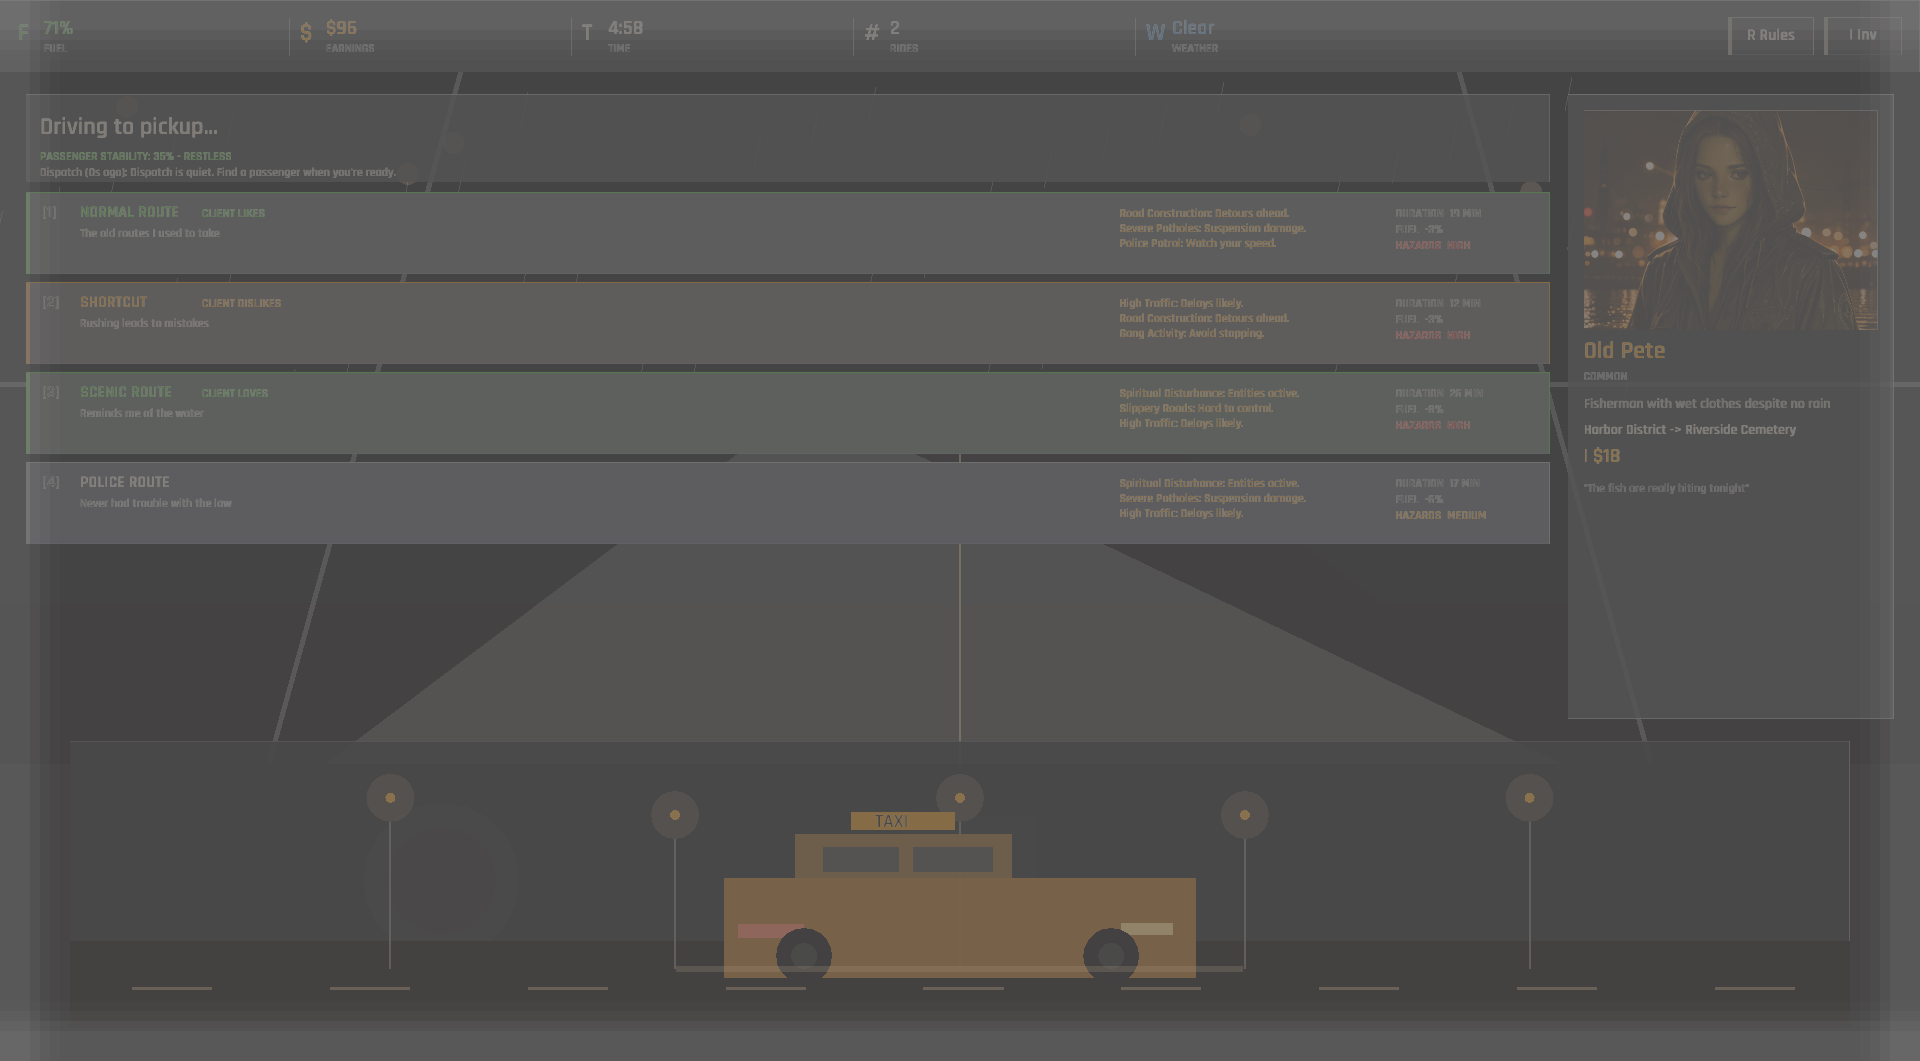
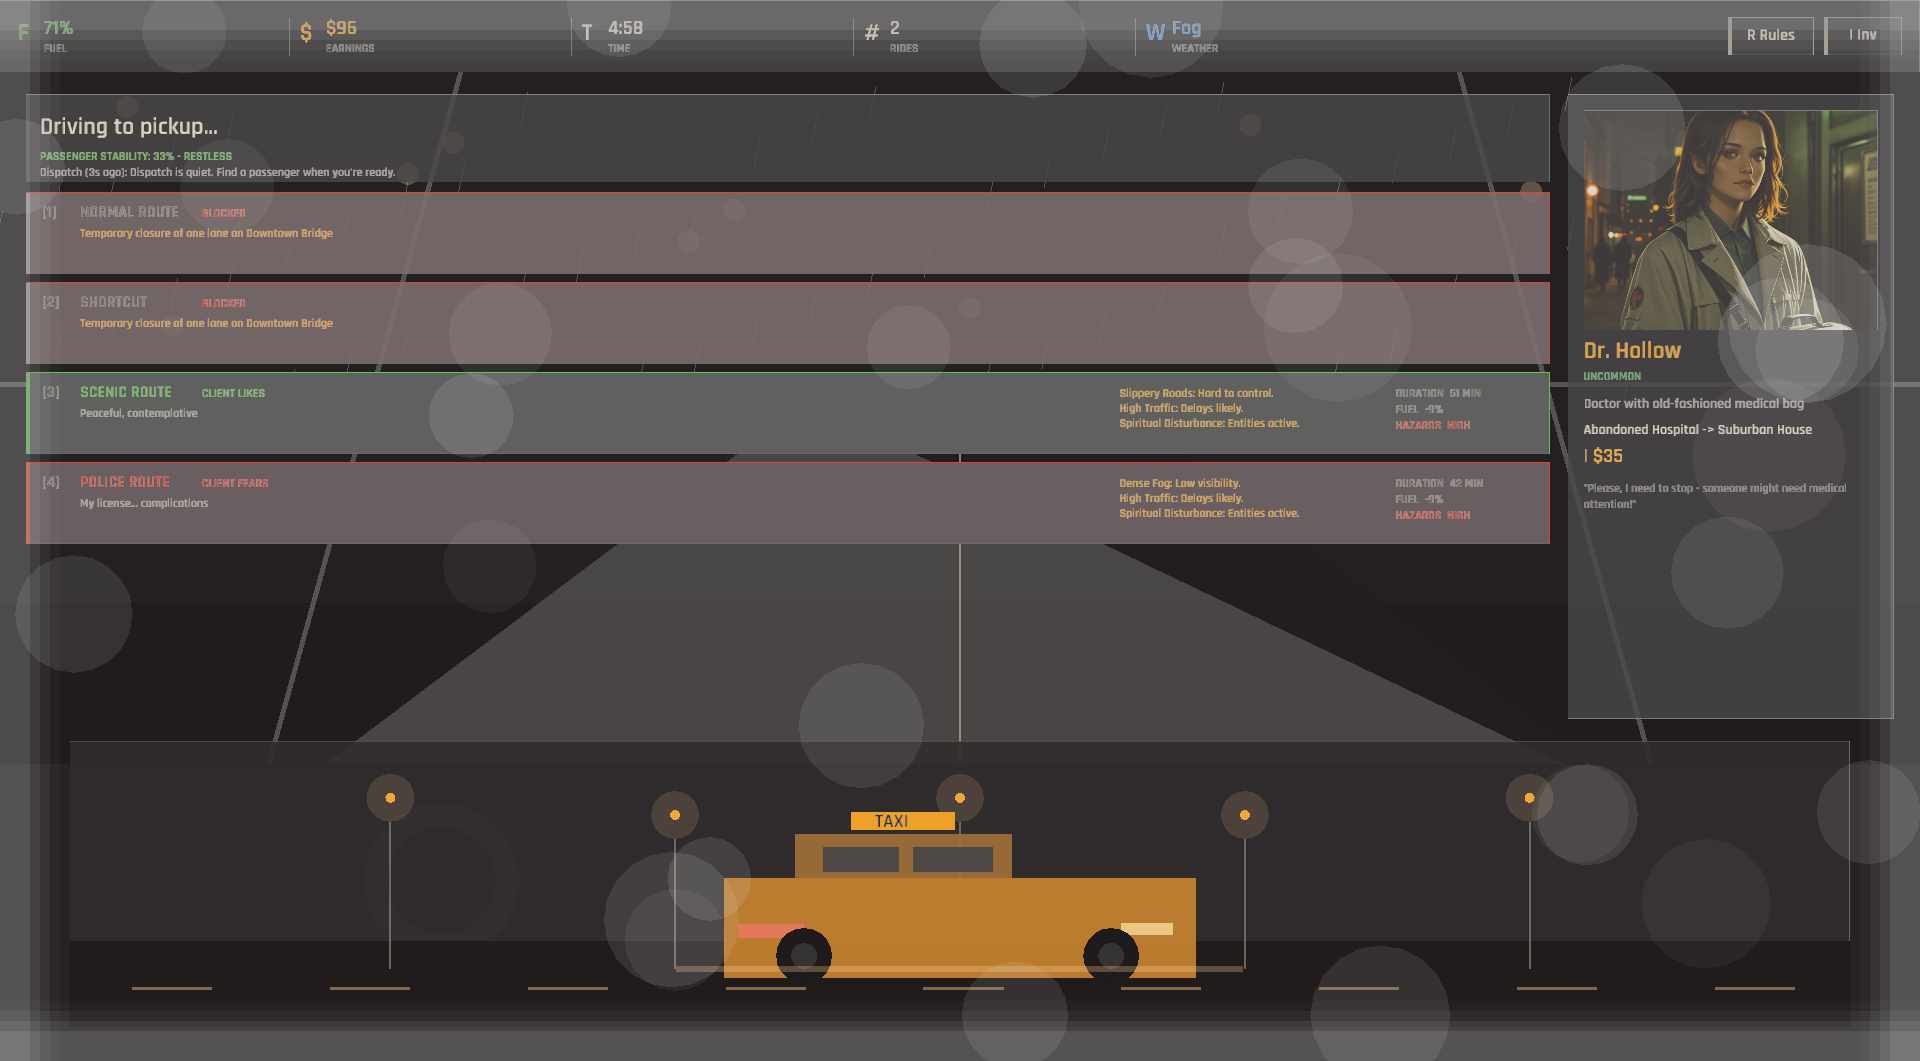
Twenty-four street scenes and three tiers of study finally make it to the windshield (Location.description under the ride target; AlmanacLevel.description heads the expanded card; EventTemplate.id demoted to an authoring label)

diff --git a/src/screens/meta_screens/almanac.rs b/src/screens/meta_screens/almanac.rs
@@ -24,13 +24,18 @@ fn card_height_for(
         70.0
     };
     let expanded_extra = if is_selected && entry.encountered {
-        match entry.knowledge_level {
-            _ if story_known => 180.0,
-            0 => 60.0,  // Just basic info
-            1 => 100.0, // Description + traits
-            2 => 160.0, // + route preferences
-            _ => 180.0, // + backstory
-        }
+        // Every tier leads with the almanac's own line about what this
+        // level of study amounts to, hence the extra headroom over the
+        // per-level content below it.
+        let level_line = 26.0;
+        level_line
+            + match entry.knowledge_level {
+                _ if story_known => 180.0,
+                0 => 60.0,  // Just basic info
+                1 => 100.0, // Description + traits
+                2 => 160.0, // + route preferences
+                _ => 180.0, // + backstory
+            }
     } else {
         0.0
     };
@@ -299,6 +304,24 @@ pub fn draw_almanac(
                 // Expanded details when selected
                 if is_selected && entry.encountered {
                     let mut details_y = card_y + 78.0;
+
+                    // What this tier of study amounts to, in the almanac's
+                    // own words — authored per level, shown nowhere before.
+                    if let Some(level) = data.almanac.get_level(entry.knowledge_level) {
+                        if !level.description.is_empty() {
+                            details_y = draw_wrapped_text(
+                                &level.description,
+                                text_x,
+                                details_y,
+                                card_width - 92.0,
+                                fonts::SIZE_XS,
+                                15.0,
+                                colors::CAB_YELLOW,
+                                2,
+                            );
+                            details_y += 10.0;
+                        }
+                    }
 
                     // Level 0+: Basic description
                     details_y = draw_wrapped_text(

diff --git a/src/screens/game_screens/driving.rs b/src/screens/game_screens/driving.rs
@@ -125,6 +125,18 @@ pub fn draw_driving(
                 fonts::SIZE_XS,
                 colors::TEXT_MUTED,
             );
+
+            // Where that road ends, as the location file paints it. All 24
+            // locations author this line; it was loaded and never drawn.
+            if let Some(location) = data.get_location(target) {
+                draw_ui_text(
+                    &location.description,
+                    header_inner.x + left_w * 0.54,
+                    header_inner.y + 68.0,
+                    fonts::SIZE_XS,
+                    colors::TEXT_MUTED,
+                );
+            }
         }
 
         let r = &data.localization.ui.game.driving.routes;

diff --git a/src/data/event.rs b/src/data/event.rs
@@ -85,8 +85,9 @@ fn default_weight() -> f32 {
 /// filters the deck by the current route, picks one weighted by `weight`, and
 /// may append a passenger-specific "use your ability" choice before shuffling.
 #[derive(Debug, Clone, Serialize, Deserialize)]
+// The JSON also authors an `id` label per event; nothing selects or
+// deduplicates by it, so it stays an authoring aid and is not deserialized.
 pub struct EventTemplate {
-    pub id: String,
     pub title: String,
     pub description: String,
     #[serde(default = "default_weight")]

diff --git a/TODO.md b/TODO.md
@@ -7,7 +7,6 @@ Code and data that exist but never reach the player. Verified against the source
 ### Dead data (authored JSON → nothing)
 
 - `Guideline.visible` and `Guideline.difficulty` are deserialized but never read (five authored difficulty tiers decide nothing); `exceptions[].probability` is never rolled — `check_exception_conditions` is fully deterministic; `ExceptionCondition.description` is unread.
-- `Location.description` (all 24 locations), `AlmanacLevel.description`, and `EventTemplate.id` are loaded and never consumed.
 - `skillTreeData.json`: `effect.type` distinguishes `stat_boost`/`mechanic_unlock`/`passive_bonus` but dispatch is entirely on `effect.target`; `effect.value` is discarded for the five passive ability unlocks; `third_eye_1`'s text promises a per-ride reveal but the roll happens once per shift.
 - `tells[].type`: only `verbal` is ever branched on; the 20 behavioral/visual/environmental tells are treated identically to each other.
 
